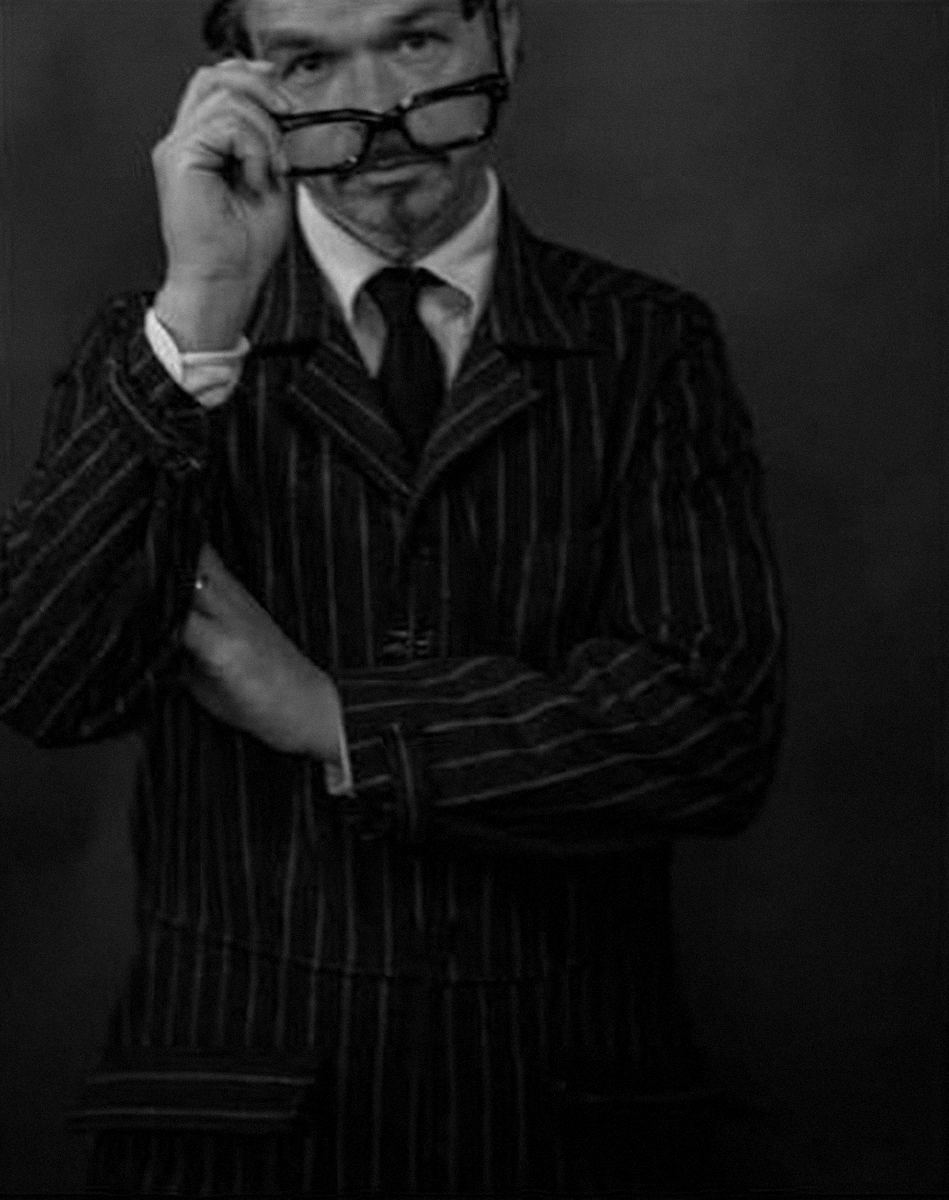
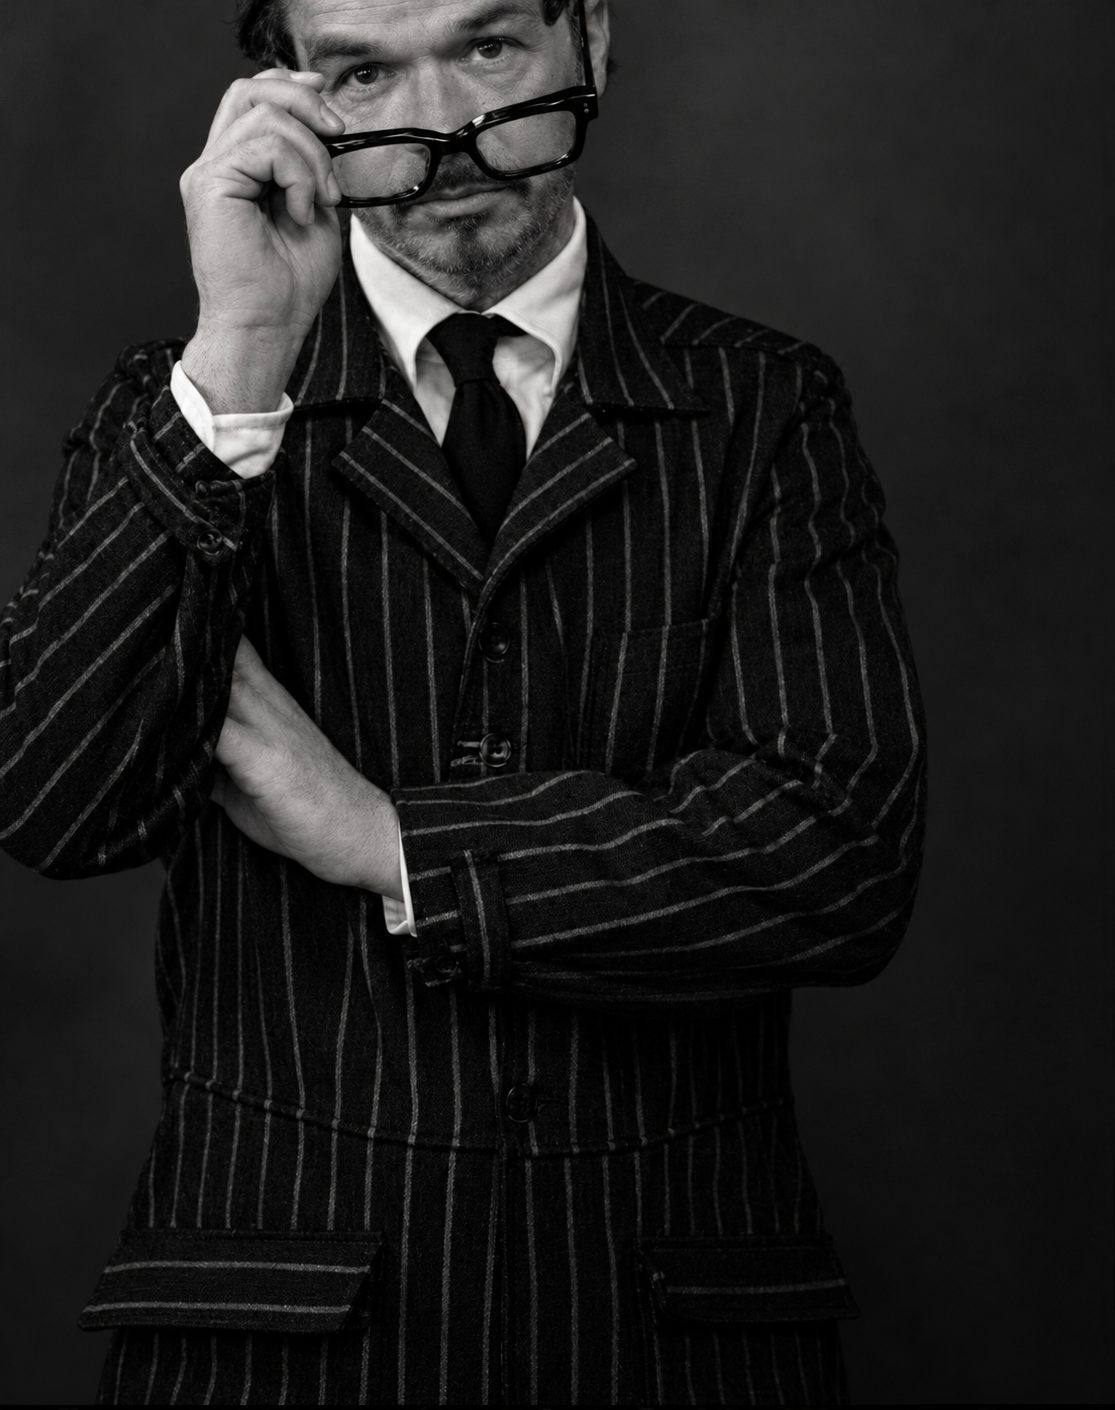
Nya högupplösta bilder på startsidan och Atelier
- Hero och svartvitt porträtt utbytta mot högupplösta versioner
- Processen: Cutting visar händer som klipper, Tailoring nålrandig kostym
- Ny helskärmspaus med saxen bakom ryggen
- Kamelfärgad jacka på provdocka bredvid prislistan
- Atelier: Cutting med pappersmönstren, Tailoring med skräddaren vid bänken
- Lågupplösta bilder uppskalade 4x

Claude-Session: https://claude.ai/code/session_01LeSnNseWHorT1eBH7sMUc6

diff --git a/src/routes/index.tsx b/src/routes/index.tsx
@@ -8,10 +8,12 @@ import { FORETAG, TAGLINE } from "@/lib/foretag";
 import { ATELIER_AVSNITT, ATELIER_INTRO, BESPOKE_SHIRT, HEAD_CUTTER, PRISER } from "@/lib/innehall";
 
 import fitting from "@/assets/photos/fitting.jpg";
-import fittingSmall from "@/assets/photos/fitting-1200.jpg";
-import cutter from "@/assets/photos/cutter.jpg";
+import fittingSmall from "@/assets/photos/fitting-800.jpg";
+import cutting from "@/assets/photos/cutting.jpg";
+import pinstripe from "@/assets/photos/pinstripe.jpg";
+import shears from "@/assets/photos/shears.jpg";
+import bomber from "@/assets/photos/bomber.jpg";
 import portrait from "@/assets/photos/portrait.jpg";
-import suit from "@/assets/photos/suit.jpg";
 import workwear from "@/assets/photos/workwear.jpg";
 
 export const Route = createFileRoute("/")({
@@ -29,7 +31,7 @@ export const Route = createFileRoute("/")({
         rel: "preload",
         as: "image",
         href: fitting,
-        imageSrcSet: `${fittingSmall} 1200w, ${fitting} 2400w`,
+        imageSrcSet: `${fittingSmall} 800w, ${fitting} 1254w`,
         imageSizes: "100vw",
       },
     ],
@@ -47,10 +49,14 @@ const PROCESS = [
   },
   {
     ...avsnitt("cutting"),
-    bild: cutter,
-    alt: "A cutter at his bench with shears and tape measure",
+    bild: cutting,
+    alt: "Hands cutting dark cloth with tailor's shears on the cutting table",
   },
-  { ...avsnitt("tailoring"), bild: suit, alt: "A finished grey suit worn in the workroom" },
+  {
+    ...avsnitt("tailoring"),
+    bild: pinstripe,
+    alt: "A finished chalk-stripe suit worn with a denim shirt and knitted tie",
+  },
 ];
 
 const ROMERSKA = ["I", "II", "III"];
@@ -62,6 +68,7 @@ function Start() {
       <SinceSektion />
       <HeadCutter />
       <Process />
+      <Saxen />
       <ShirtsOchKnitwear />
       <Priser />
       <Avslut />
@@ -80,7 +87,7 @@ function Hero() {
       <div className="sticky top-0 flex h-svh items-center justify-center overflow-hidden">
         <img
           src={fitting}
-          srcSet={`${fittingSmall} 1200w, ${fitting} 2400w`}
+          srcSet={`${fittingSmall} 800w, ${fitting} 1254w`}
           sizes="100vw"
           alt="A client being measured for a bespoke coat"
           fetchPriority="high"
@@ -268,6 +275,40 @@ function Process() {
   );
 }
 
+/* ------------------------------------------- A pause: the shears, held back */
+
+function Saxen() {
+  const ref = useRef<HTMLElement>(null);
+  useScrollProgress(ref, 1);
+
+  return (
+    <section ref={ref} className="relative h-[160vh] bg-green-deep" aria-label="The atelier">
+      <div className="sticky top-0 flex h-svh items-end overflow-hidden">
+        <img
+          src={shears}
+          alt="A tailor seen from behind, holding large shears behind his back"
+          loading="lazy"
+          className="absolute inset-0 h-full w-full object-cover object-[50%_88%] will-change-transform"
+          style={{ transform: "scale(calc(1.12 - 0.12 * var(--p, 0)))" }}
+        />
+        <div
+          aria-hidden="true"
+          className="absolute inset-0 bg-linear-to-t from-green-deep/85 via-green-deep/10 to-transparent"
+        />
+        <p
+          className="voice relative container-page pb-16 text-3xl text-ivory sm:pb-24 sm:text-5xl md:text-right"
+          style={{
+            opacity: "calc(var(--p, 0) * 2.2 - 0.3)",
+            transform: "translateY(calc((1 - var(--p, 0)) * 3vh))",
+          }}
+        >
+          Unflaggingly adapted to your vision.
+        </p>
+      </div>
+    </section>
+  );
+}
+
 /* ------------------------------------------------------- Shirts & knitwear */
 
 function ShirtsOchKnitwear() {
@@ -321,6 +362,14 @@ function Priser() {
             {PRISER.rubrik}
           </h2>
           <p className="voice mt-8 text-lg text-ivory/75">{PRISER.text}</p>
+          <Reveal className="mt-12 hidden md:block">
+            <img
+              src={bomber}
+              alt="A camel bespoke jacket on a tailor's dummy, seen from the back"
+              loading="lazy"
+              className="aspect-[2/3] w-full object-cover"
+            />
+          </Reveal>
         </div>
         <div className="md:col-span-7 md:col-start-6">
           <Prislista />

diff --git a/src/routes/atelier.tsx b/src/routes/atelier.tsx
@@ -6,7 +6,8 @@ import { ATELIER_AVSNITT, ATELIER_INTRO, BESPOKE_SHIRT, PRISER } from "@/lib/inn
 
 import fitting from "@/assets/photos/fitting.jpg";
 import cutter from "@/assets/photos/cutter.jpg";
-import suit from "@/assets/photos/suit.jpg";
+import workroom from "@/assets/photos/workroom.jpg";
+import bomber from "@/assets/photos/bomber.jpg";
 import workwear from "@/assets/photos/workwear.jpg";
 
 export const Route = createFileRoute("/atelier")({
@@ -25,8 +26,11 @@ export const Route = createFileRoute("/atelier")({
 
 const BILDER: Record<string, { src: string; alt: string } | undefined> = {
   fitting: { src: fitting, alt: "A client being measured across the back during a fitting" },
-  cutting: { src: cutter, alt: "A cutter at his bench with shears and tape measure" },
-  tailoring: { src: suit, alt: "A finished grey suit worn in the workroom" },
+  cutting: {
+    src: workroom,
+    alt: "A cutter in the workroom, paper master patterns hanging on the wall behind him",
+  },
+  tailoring: { src: cutter, alt: "A tailor at his bench with shears and tape measure" },
   shirts: {
     src: workwear,
     alt: "A white bespoke shirt cuff beneath a blue workwear jacket, a tennis ball in the pocket",
@@ -130,6 +134,12 @@ function Atelier() {
               {PRISER.rubrik}
             </h2>
             <p className="voice mt-8 text-lg text-ivory/75">{PRISER.text}</p>
+            <img
+              src={bomber}
+              alt="A camel bespoke jacket on a tailor's dummy, seen from the back"
+              loading="lazy"
+              className="mt-12 hidden aspect-[2/3] w-full object-cover md:block"
+            />
           </div>
           <div className="md:col-span-7 md:col-start-6">
             <Prislista />

diff --git a/src/routes/__root.tsx b/src/routes/__root.tsx
@@ -11,7 +11,7 @@ import {
 import { useEffect, type ReactNode } from "react";
 
 import appCss from "../styles.css?url";
-import ogImage from "@/assets/photos/fitting-1200.jpg";
+import ogImage from "@/assets/photos/fitting-800.jpg";
 import { reportLovableError } from "../lib/lovable-error-reporting";
 import { Header } from "@/components/Header";
 import { Footer } from "@/components/Footer";
